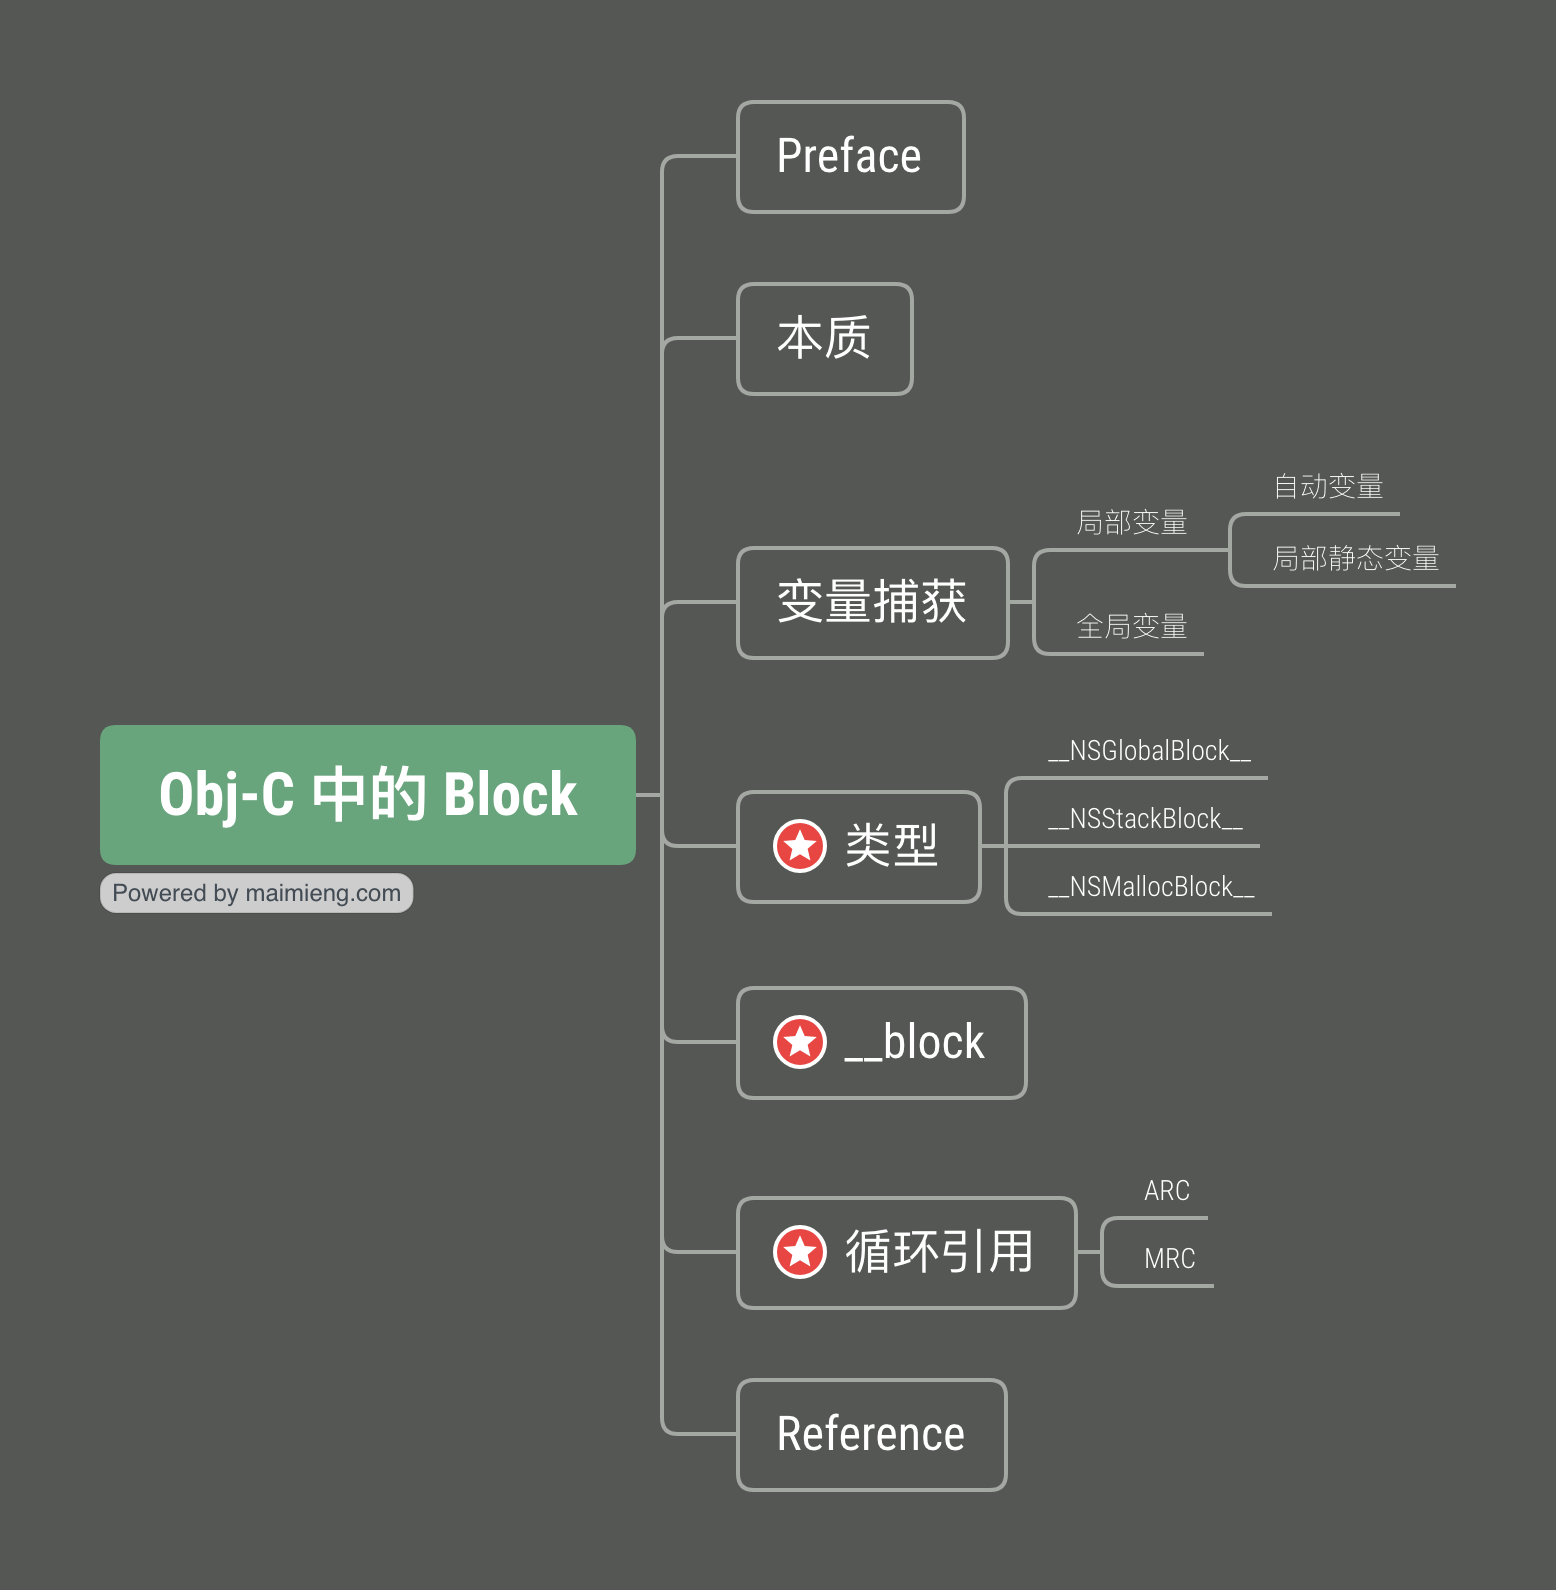
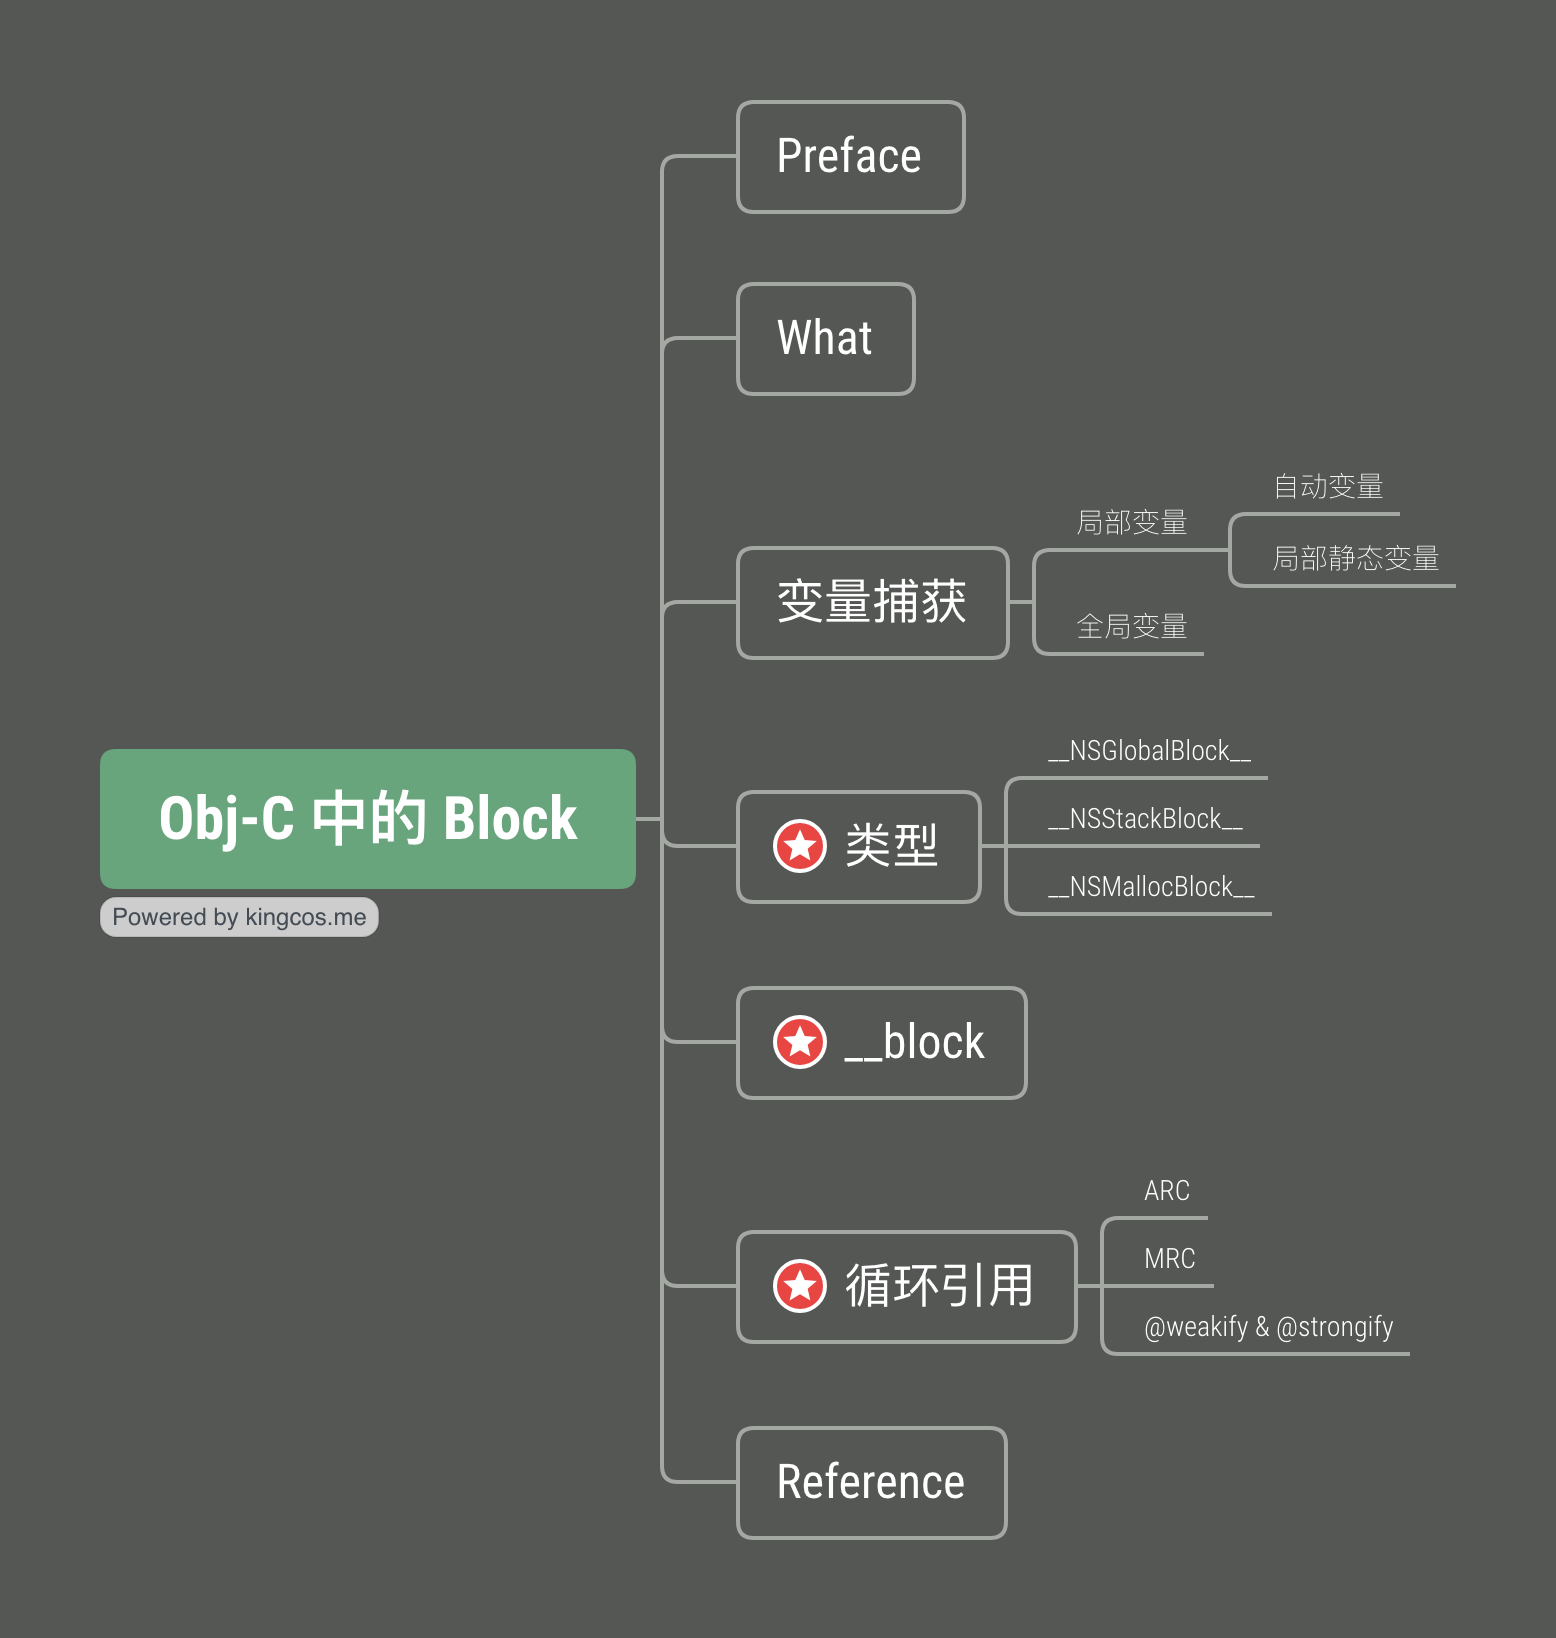
Build

diff --git a/posts/2019/block_in_obj-c/index.html b/posts/2019/block_in_obj-c/index.html
@@ -141,7 +141,7 @@
       
       
       
-        <span class="post-read-time">— 17 min read</span>
+        <span class="post-read-time">— 16 min read</span>
       
     </div>
 
@@ -790,6 +790,8 @@ int main(int argc, const char * argv[]) {
         [mallocBlock1 release];
         [mallocBlock2 release];
 #endif
+    }
+}
 
 // MRC OUTPUT:
 // mallocBlock1 is __NSMallocBlock__
@@ -807,6 +809,7 @@ int main(int argc, const char * argv[]) {
 // c == 10
 // &lt;Person: 0x1007712c0&gt;
 // &lt;Person: 0x1007712c0&gt;
+// ⚠：此处 mallocBlock1 &amp; mallocBlock2 全局变量还没有释放，因而持有的 strongP 也没有被释放
 </code></pre>
 
 <ul>
@@ -814,10 +817,10 @@ int main(int argc, const char * argv[]) {
 <li>ARC 下，编译器会根据情况将 <code>__NSStackBlock__</code> 类型的 Block 自动 <code>copy</code> 到堆上：
 
 <ol>
-<li>强指针指向的 Block 会被自动拷贝</li>
-<li>Block 作为函数返回值会被自动拷贝</li>
-<li>Block 作为 Cocoa API 中方法名含有 <code>usingBlock</code> 的参数时会被自动拷贝（较难证明）</li>
-<li>Block 作为 GCD API 参数时会被自动拷贝（较难证明）</li>
+<li>强指针指向的 Block 会被自动拷贝；</li>
+<li>Block 作为函数返回值会被自动拷贝；</li>
+<li>Block 作为 Cocoa API 中方法名含有 <code>usingBlock</code> 的参数时会被自动拷贝（较难证明）；</li>
+<li>Block 作为 GCD API 参数时会被自动拷贝（较难证明）。</li>
 </ol></li>
 </ul>
 
@@ -1240,11 +1243,7 @@ static void __Block_byref_id_object_dispose_131(void *src) {
 }
 </code></pre>
 
-<blockquote>
-<p>特殊情况</p>
-
-<p>MRC 下 <code>__Block_byref_xxx</code> 对于变量将总是弱引用（即不会进行 Retain），这也可被用来破解循环引用：</p>
-</blockquote>
+<p>需要注意的是，MRC 下的 <code>__Block_byref_xxx</code> 对于变量将不会进行持有操作，这也可被用来破解循环引用：</p>
 
 <pre><code class="language-objectivec">int main(int argc, const char * argv[]) {
     @autoreleasepool {
@@ -1270,7 +1269,7 @@ static void __Block_byref_id_object_dispose_131(void *src) {
 
 <h2 id="循环引用">循环引用</h2>
 
-<p>我们知道，Obj-C 是根据引用计数来管理对象的内存的，但其中的一个问题便是循环引用，即两个对象以强引用互相指向对方，引用计数无法减少，对象无法释放，很容易导致内存泄漏：</p>
+<p>我们知道，Obj-C 是根据引用计数来管理对象的内存的，但其中的一个问题便是循环引用，即两个对象以强引用互相指向对方，引用计数无法减少，对象无法释放，导致内存泄漏：</p>
 
 <pre><code class="language-objectivec">typedef void(^SomeBlock)(void);
 
@@ -1280,20 +1279,18 @@ static void __Block_byref_id_object_dispose_131(void *src) {
 @end
 
 @implementation Person
-
 - (void)dealloc
 {
     NSLog(@&quot;dealloc&quot;);
 }
 
 - (void)foo {
-    // ➡ Block 捕获了 self，self 中强引用 Block，导致双方都无法释放
+    // Block 捕获了 self，其强引用了 Block，导致双方都无法释放
     self.block = ^{
         NSLog(@&quot;%lu&quot;, (unsigned long)self.age);
-        NSLog(@&quot;%lu&quot;, (unsigned long)_age); // self._age
+        NSLog(@&quot;%lu&quot;, (unsigned long)_age); // self-&gt;_age
     };
 }
-
 @end
 
 int main(int argc, const char * argv[]) {
@@ -1302,8 +1299,8 @@ int main(int argc, const char * argv[]) {
         p.age = 20;
 
         p.block = ^{
-            // ➡ Block 捕获了 p，p 中强引用 Block，导致双方都无法释放（如下图）
-            // Capturing 'p' strongly in this block is likely to lead to a retain cycle
+            // Block 捕获了 p，其强引用了 Block，导致双方都无法释放
+            // WARNING: Capturing 'p' strongly in this block is likely to lead to a retain cycle
             NSLog(@&quot;%lu&quot;, (unsigned long)p.age);
         };
 
@@ -1327,7 +1324,7 @@ int main(int argc, const char * argv[]) {
 <p>想要打破循环引用，我们需要一个不增加引用计数的指向。那么到底更改哪个引用呢？我们仍以上图为例：</p>
 
 <ul>
-<li>1⃣ 处的强引用是我们在初始化时 <code>Person *p = [[Person alloc] init];</code> 所赋予的，栈上的 <code>p</code> 指针存储了堆上的 对象的内存地址；</li>
+<li>1⃣ 处的强引用是我们在初始化时 <code>Person *p = [[Person alloc] init];</code> 所赋予的，栈上的 <code>p</code> 指针存储了堆上的对象的内存地址；</li>
 <li>2⃣ 处的强引用是 Block 结构体（<code>__main_block_impl_0</code>）对自身捕获到内部的对象的强引用，其引用是根据外界即 1⃣ 处声明时的强弱来决定的；</li>
 <li>3⃣ 处的强引用是根据我们在 <code>Person</code> 类中声明的属性修饰 <code>@property (nonatomic, copy) SomeBlock block;</code> 所决定的。</li>
 </ul>
@@ -1335,6 +1332,7 @@ int main(int argc, const char * argv[]) {
 <p>而我们需要 Block 应当随 <code>Person</code> 对象销毁而销毁，如果将 3⃣ 处改为弱引用或 <code>__unsafe_unretained</code>，则可能出现 Block 的提前释放。因此综上，我们可以将 1⃣ 的引用改为弱引用或 <code>__unsafe_unretained</code>：</p>
 
 <pre><code class="language-objectivec">// Person.m
+
 - (void)foo {
     __weak typeof(self) weakSelf = self;
     self.block = ^{
@@ -1380,32 +1378,20 @@ int main(int argc, const char * argv[]) {
 
 <p><code>__block</code> 的变量由于可以在 Block 内修改，因此其也可以用来解除循环引用：</p>
 
-<pre><code class="language-objectivec">int main(int argc, const char * argv[]) {
-    @autoreleasepool {
-        __block Person *p = [[Person alloc] init];
-        p.age = 20;
+<pre><code class="language-objectivec">__block Person *p = [[Person alloc] init];
 
-        p.block = ^{
-            NSLog(@&quot;%lu&quot;, (unsigned long)p.age);
+p.block = ^{
+    NSLog(@&quot;%@&quot;, p);
 
-            p = nil;
-        };
+    p = nil; // 将 __Block_byref_p_0 中的 p 置为 nil，打破循环
+};
 
-        p.block();
+p.block();
 
-        p.block = ^{
-            NSLog(@&quot;%lu&quot;, (unsigned long)p.age);
-
-            // 将 __Block_byref_p_0 中的 p 置为 nil，打破循环
-            p = nil;
-        };
-
-        // p.block();
-    }
-}
+p.block(); // CRASH: EXC_BAD_ACCESS
 
 // OUTPUT:
-// 20
+// &lt;Person: 0x1007b9070&gt;
 // dealloc
 </code></pre>
 
@@ -1414,91 +1400,63 @@ int main(int argc, const char * argv[]) {
 <p>但需要注意：</p>
 
 <ol>
-<li>Block 必须执行才可以置为 <code>nil</code>，破解循环引用；</li>
-<li><code>p = nil;</code> 被首次执行时就会释放，因此如果后续再次执行 Block 将出现 <code>EXC_BAD_ACCESS</code> 错误。</li>
+<li>Block 必须执行，才可以将强引用的自动变量置为 <code>nil</code>，从而破解循环引用；</li>
+<li>循环引用破解后，Block 和 <code>p</code> 均释放，因此如果后续再次执行 Block 将出现 <code>EXC_BAD_ACCESS</code> 崩溃。</li>
 </ol>
 
 <h3 id="mrc">MRC</h3>
 
-<p>MRC 下，我们需要手动将栈上的 Block 复制到堆上，并在结束使用时手动释放（Release），但循环引用出现时即使手动释放对象也无法销毁：</p>
+<p>MRC 下，我们需要手动将栈上的 Block 复制到堆上，并在结束使用时 <code>release</code>，但循环引用出现时即使手动释放对象也无法销毁：</p>
 
-<pre><code class="language-objectivec">@interface Person : NSObject
-@property (nonatomic, assign) NSUInteger age;
-@property (nonatomic, copy) SomeBlock block;
-@end
+<pre><code class="language-objectivec">Person *p = [[Person alloc] init];
 
-@implementation Person
-- (void)dealloc
-{
-    [super dealloc];
-    NSLog(@&quot;dealloc&quot;);
-}
-@end
+p.block = [^{
+    NSLog(@&quot;%@&quot;, p);
+} copy];
 
-int main(int argc, const char * argv[]) {
-    @autoreleasepool {
-        Person *p = [[Person alloc] init];
-        p.age = 20;
+p.block();
 
-        p.block = [^{
-            NSLog(@&quot;%lu&quot;, (unsigned long)p.age);
-        } copy];
-
-        p.block();
-
-        [p release];
-
-        // Never dealloc
-    }
-}
+[p release]; // But never dealloc
 
 // OUTPUT:
-// 20
+// &lt;Person: 0x1007b8f70&gt;
 </code></pre>
 
-<p>由于 MRC 没有强弱引用的概念，因从破解循环引用只能使用 <code>__unsafe_unretained</code>，其使得 Block 内部不会对捕获的对象持有（Retain）：</p>
+<p>由于 MRC 没有强弱引用的概念，因从破解循环引用只能使用 <code>__unsafe_unretained</code>，其使得 Block 内部不再会对捕获的对象持有：</p>
 
-<pre><code class="language-objectivec">int main(int argc, const char * argv[]) {
-    @autoreleasepool {
-        __unsafe_unretained Person *p = [[Person alloc] init];
-        p.age = 20;
+<pre><code class="language-objectivec">__unsafe_unretained Person *p = [[Person alloc] init];
 
-        p.block = [^{
-            NSLog(@&quot;%lu&quot;, (unsigned long)p.age);
-        } copy];
+p.block = [^{
+    NSLog(@&quot;%@&quot;, p);
+} copy];
 
-        p.block();
+p.block();
 
-        [p release];
-    }
-}
+[p release];
 
 // OUTPUT:
-// 20
+// &lt;Person: 0x1007a8290&gt;
 // dealloc
 </code></pre>
 
-<p>当然，正如 <code>__block</code> 一节中所述，其也可以用来破解 MRC 下的循环引用，因为 <code>__block</code> 修饰的变量在 MRC 下，<code>__Block_byref_xxx</code> 将不会对捕获的变量持有（Retain）。</p>
+<p><code>__block</code> 其实也可以用来破解 MRC 下的循环引用，因为 <code>__block</code> 修饰的变量在 MRC 下，<code>__Block_byref_xxx</code> 将不会对捕获的变量持有：</p>
 
-<pre><code class="language-objectivec">int main(int argc, const char * argv[]) {
-    @autoreleasepool {
-        __block Person *p = [[Person alloc] init];
-        p.age = 20;
+<pre><code class="language-objectivec">__block Person *p = [[Person alloc] init];
 
-        p.block = [^{
-            NSLog(@&quot;%lu&quot;, (unsigned long)p.age);
-        } copy];
+p.block = [^{
+    NSLog(@&quot;%@&quot;, p);
+} copy];
 
-        p.block();
+p.block();
 
-        [p release];
-    }
-}
+[p release];
 
 // OUTPUT:
-// 20
+// &lt;Person: 0x100747970&gt;
 // dealloc
 </code></pre>
+
+<h3 id="weakify-strongify"><code>@weakify</code> &amp; <code>@strongify</code></h3>
 
     </div>
     

diff --git a/page/2/index.html b/page/2/index.html
@@ -297,7 +297,7 @@
         </span>
         
         
-          <span class="post-read-time">— 17 min read</span>
+          <span class="post-read-time">— 16 min read</span>
         
       </div>
 

diff --git a/posts/page/2/index.html b/posts/page/2/index.html
@@ -294,7 +294,7 @@
         </span>
         
         
-          <span class="post-read-time">— 17 min read</span>
+          <span class="post-read-time">— 16 min read</span>
         
       </div>
 

diff --git a/tags/focus/index.html b/tags/focus/index.html
@@ -442,7 +442,7 @@
         </span>
         
         
-          <span class="post-read-time">— 17 min read</span>
+          <span class="post-read-time">— 16 min read</span>
         
       </div>
 

diff --git a/tags/ios/page/2/index.html b/tags/ios/page/2/index.html
@@ -185,7 +185,7 @@
         </span>
         
         
-          <span class="post-read-time">— 17 min read</span>
+          <span class="post-read-time">— 16 min read</span>
         
       </div>
 

diff --git a/tags/obj-c/index.html b/tags/obj-c/index.html
@@ -444,7 +444,7 @@
         </span>
         
         
-          <span class="post-read-time">— 17 min read</span>
+          <span class="post-read-time">— 16 min read</span>
         
       </div>
 
